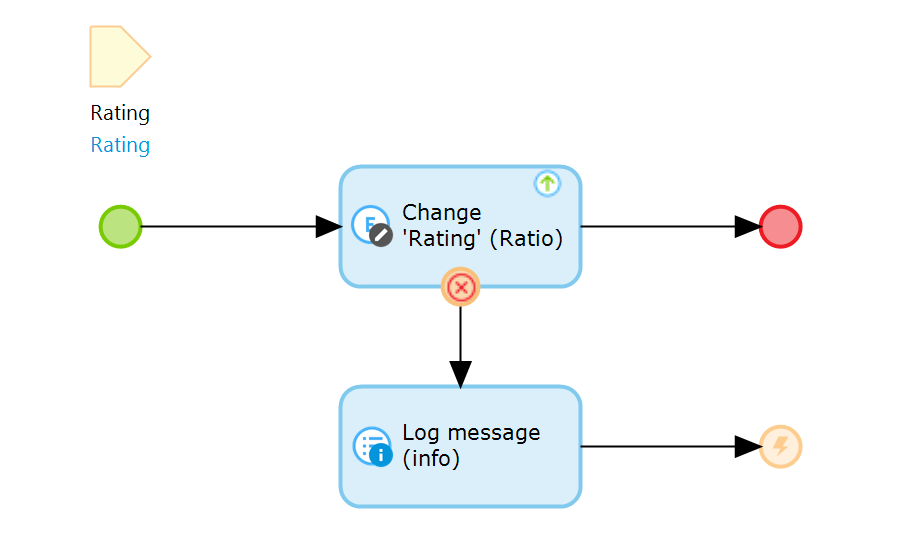
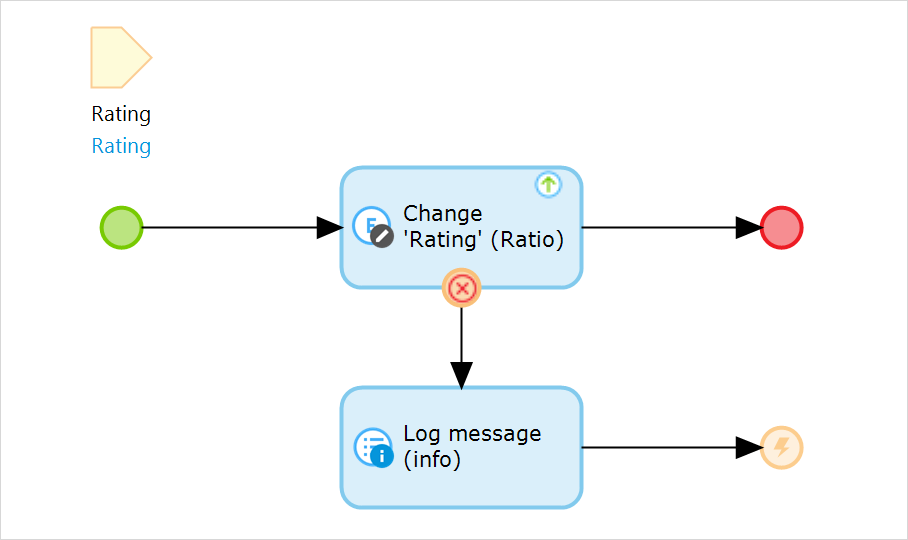
Resize images

diff --git a/content/evaluation-guide/app-lifecycle/devops-overview.md b/content/evaluation-guide/app-lifecycle/devops-overview.md
@@ -29,7 +29,9 @@ Many tools and services considered standard for DevOps are either available out 
 
 Mendix makes it easy to manage the requirements of different stakeholders for your apps. In the [Mendix Developer Portal](https://sprintr.home.mendix.com/), development teams can set up their app project backlogs. As part of the DevOps process, a team regularly schedules user stories from their backlog to improve their operational processes.
 
+{{% image_container width="600" %}}
 ![](attachments/stories.png)
+{{% /image_container %}}
 
 For more details on how Mendix helps development teams to manage their requirements and project backlogs, see [Agile Project Management](requirements-management).
 
@@ -37,7 +39,9 @@ For more details on how Mendix helps development teams to manage their requireme
 
 During development, Mendix helps development teams to efficiently develop (or *model*) high-quality application models. An app model is continuously checked for consistency errors while the user is working in the Mendix Desktop Modeler or Web Modeler. These consistency checks ensure model integrity and immediately catch many of the mistakes users can make.
 
+{{% image_container width="650" %}}
 ![](attachments/error-list.png)
+{{% /image_container %}}
 
 Compared to other development tools, this makes users more efficient and reduces the number of accidentally introduced regressions. For more details, see [Consistency Checks](model-consistency).
 
@@ -49,7 +53,9 @@ For further information on developing Mendix apps, see [Developing in Mendix](de
 
 Mendix users commit the changes they make to their app models to the Mendix Team Server, which is a fully fledged and managed version control system based on Subversion. From any commit on any branch, you can create a deployment package. This is then stored in the Mendix Deployment Package Repository, where developers can manage all Mendix artifacts.
 
+{{% image_container width="600" %}}
 ![](attachments/deployment-package-repository.png)
+{{% /image_container %}}
 
 For details on how to version your app models, create deployable artifacts, and manage those artifacts, see [App Build Creation](building-your-app).
 
@@ -81,7 +87,9 @@ For more details, see [Operations, Deployment, and Release](ops-deployment-relea
 
 The Mendix Platform provides out-of-the-box monitoring capabilities that give insight into the health and status of all your Mendix apps running in the Mendix Cloud. Development teams will find that the essential [trend graphs](https://docs.mendix.com/developerportal/operate/trends-v4), [alerting functionality](https://docs.mendix.com/developerportal/operate/monitoring-application-health), and [live logging](https://docs.mendix.com/developerportal/operate/logs) features make it very easy to operate and monitor Mendix apps after deployment.
 
+{{% image_container width="600" %}}
 ![](attachments/metrics.png)
+{{% /image_container %}}
 
 Developers can do advanced problem diagnosis and performance monitoring of their Mendix apps with [Mendix Application Performance Monitor (APM)](https://docs.mendix.com/apm/).
 

diff --git a/content/evaluation-guide/app-lifecycle/developing-app-logic.md b/content/evaluation-guide/app-lifecycle/developing-app-logic.md
@@ -30,7 +30,9 @@ Mendix is all about the collaboration between business and IT, and the visual na
 
 The Mendix Web Modeler has review capabilities built in, which business users can utilize to review specific microflows describing the business logic. While reviewing that logic, such users can inspect what the logic does in a familiar visual language. They can also add comments on the microflow to describe the changes required to meet business requirements. This results in a very short feedback loop, leading to better products and lower costs.
 
+{{% image_container width="600" %}}
 ![](attachments/buzz_comment.png)
+{{% /image_container %}}
 
 ## 3 How Do I Build Client-Side Logic?
 
@@ -54,7 +56,7 @@ A microflow is composed of the following element types:
 
 For more information, see [Microflows](https://docs.mendix.com/refguide/microflows) in the Mendix Reference Guide.
 
-{{% image_container width="450" %}}
+{{% image_container width="500" %}}
 ![](attachments/microflow.png)
 {{% /image_container %}}
 
@@ -75,7 +77,9 @@ For more details, see the following sections:
 
 Integration with a third-generation programming language (in this case, Java) is one of the key strengths of the Mendix model-driven development approach. This is particularly useful in those rare situations where you are unable to achieve your desired results using microflows alone, or where you have an existing investment in Java/Scala code and skills that you would like to leverage in your application models. The Mendix Desktop Modeler is integrated with Eclipse to support you in making code extensions to the models. The Mendix debugging facilities are fully integrated into Eclipse, providing you the same debugging capabilities with the referred Java code as any other part of the running application.
 
+{{% image_container width="700" %}}
 ![](attachments/eclipse.png)
+{{% /image_container %}}
 
 In essence, you are never limited by the reach of a specific DSL and can always resort to the use of custom Java functions. Custom Java functions can be called from within a model, and the output can be used directly. The interface of each action (which equals a Java function) is also defined within the model. The name, parameters, and return values are all declared in the Mendix Desktop Modeler. The Modeler generates a Java template class for each action, which is the hook where custom code can be added.
 

diff --git a/content/evaluation-guide/enterprise-capabilities/security-model.md b/content/evaluation-guide/enterprise-capabilities/security-model.md
@@ -80,7 +80,9 @@ Microflows are used to visually define business and process logic. Microflow acc
 
 Microflow access is managed within a matrix of microflows and module roles. For each combination, the user can indicate whether or not the module role has access to the microflow.
 
-![Modular security settings for Microflows](attachments/figure-5-modular-security-for-microflows.png)
+{{% image_container width="600" %}}
+![](attachments/figure-5-modular-security-for-microflows.png)
+{{% /image_container %}}
 
 This information can also be edited within a microflow using the **Allowed roles** property.
 
@@ -88,7 +90,9 @@ This information can also be edited within a microflow using the **Allowed roles
 
 For each module role, entity access defines whether users with the role are authorized to create, read, update, and delete objects of the entity. Entity access is configured with access rules that apply to entities. Each access rule in turn applies to a (set of) module role(s). The access rules of an entity define what a user is allowed to do with objects of the entity. Users can be allowed to create and delete objects as well as view and edit member values. A member is an attribute or an association of an entity.
 
-![Object security rule](attachments/figure-6-object-security-role.png)
+{{% image_container width="600" %}}
+![](attachments/figure-6-object-security-role.png)
+{{% /image_container %}}
 
 Furthermore, the data sets of objects available for viewing, editing, and removing, which can be limited by means of an XPath constraint. Every access rule is applicable to one or more module roles. An access rule grants certain access rights to those roles. Rules are additive, which means that if multiple access rules apply to the same module role, all the access rights of those rules are combined for that module role. This feature is applied, for example, when applications are configured for multi-tenant usage.
 

diff --git a/content/evaluation-guide/app-capabilities/data-integrity.md b/content/evaluation-guide/app-capabilities/data-integrity.md
@@ -33,7 +33,7 @@ You can use the following types for your attributes:
 * **Long** – a 64-bit whole number
 * **String** – text containing letter, numbers, spaces, and other characters
 
-{{% image_container width="500" %}}
+{{% image_container width="600" %}}
 ![](attachments/entity_data_types.png)
 {{% /image_container %}}
 
@@ -43,7 +43,7 @@ For more details, see the section [Attributes](https://docs.mendix.com/refguide/
 
 Validation rules specify the rules to which your data should adhere. If your data does not follow the rules specified, you will receive an error when you try to save the data.
 
-{{% image_container width="500" %}}
+{{% image_container width="600" %}}
 
 ![](attachments/entity_validation_rule.png)
 
@@ -61,7 +61,7 @@ Event handlers give you the ability to run logic before or after certain events.
 
 To set event handlers on all the entities in your application, you can use the Mendix Java API. For example, to set a before commit event listener for all entities, use this method: [Core.getListenersRegistry().registerAfterCommitListener](https://apidocs.mendix.com/7/runtime/index.html?com/mendix/core/actionmanagement/ListenersRegistry.html).
 
-{{% image_container width="500" %}}
+{{% image_container width="600" %}}
 ![](attachments/entity_event_handler.png)
 {{% /image_container %}}
 
@@ -77,7 +77,7 @@ The access right aspects you can define on entities include the following:
 
 You can also use XPath constraints to define so-called **row-level security**, which defines what objects a user is allowed to see. This can be used to ensure customers can only see their data, case workers can only see data related to their cases, and tenants get access to only their tenant data in a multi-tenant application.
 
-{{% image_container width="500" %}}
+{{% image_container width="600" %}}
 ![](attachments/entity_access_rules.png)
 {{% /image_container %}}
 

diff --git a/content/evaluation-guide/app-capabilities/service-exposure.md b/content/evaluation-guide/app-capabilities/service-exposure.md
@@ -33,7 +33,7 @@ Looking at the implementation of your REST operations, you can use any microflow
 
 The following images use the optional `httpResponse` parameter, which you can use to override HTTP status code or status message. If required, you can also specify that you want access to the HTTP request, for example, to determine the value of the HTTP header values.
 
-{{% image_container width="600" %}}
+{{% image_container width="550" %}}
 ![](attachments/get-order-rest-example-mf.png)
 {{% /image_container %}}
 
@@ -69,7 +69,7 @@ To expose your Mendix data through OData, select **Expose as OData resource** fo
 
 Next, you are able to specify which attributes you want to expose. You can also specify who can access this data. Of course, all the entity access rules specified on your domain model entities still apply when retrieving data through OData.
 
-{{% image_container width="600" %}}
+{{% image_container width="650" %}}
 ![](attachments/odata-published-service.png)
 {{% /image_container %}}
 
@@ -83,7 +83,7 @@ Mendix provides a Java API to define [custom request handlers](https://www.mendi
 
 Every REST API you implement with Mendix will automatically include an OpenAPI document, describing all the resources and methods provided by your API. If you include documentation and example values in your message definition, these will also be included in your OpenAPI documentation. This will make it very easy for your users to start using your API.
 
-{{% image_container width="450" %}}
+{{% image_container width="600" %}}
 ![](attachments/swagger-documentation.png)
 {{% /image_container %}}
 

diff --git a/content/evaluation-guide/app-capabilities/multi-cloud-overview.md b/content/evaluation-guide/app-capabilities/multi-cloud-overview.md
@@ -72,13 +72,17 @@ For more information, see the section [Which Operating Systems Do the Mendix Mod
 
 Mendix multi-cloud is a deep integration with different cloud providers, which allows you to deploy your application with a single click from both the Mendix Modeler and the Developer Portal.
 
+{{% image_container width="650" %}}
 ![](attachments/run.png)
+{{% /image_container %}}
 
 The Mendix multi-cloud solution makes use of container-based cloud solutions. The creation of the container and the required services (like the database) is done completely automatically.
 
 It is even possible to switch between cloud providers, so you can start developing and running your application on one cloud and, over time, move it to another cloud.
 
+{{% image_container width="600" %}}
 ![](attachments/mutli-cloud-selection.png)
+{{% /image_container %}}
 
 At the moment, the integrated Mendix multi-cloud solution is provided for Mendix Cloud, IBM Cloud, and SAP Cloud. More clouds will be added to the Mendix multi-cloud portfolio in the near future.
 
@@ -96,7 +100,9 @@ In the scenario that you have access to an IaaS and you need to choose a PaaS la
 
 The Mendix Runtime can be directly installed on a server. Mendix provides a service manager for both Linux-based and Windows-based servers that controls the start, stop, and deployment of an application on the server.
 
+{{% image_container width="600" %}}
 ![](attachments/mx-service-console.png)
+{{% /image_container %}}
 
 For Linux-based applications, this is a command-line based tool called [M2EE](https://github.com/mendix/m2ee-tools).
 

diff --git a/content/evaluation-guide/app-capabilities/front-end.md b/content/evaluation-guide/app-capabilities/front-end.md
@@ -12,7 +12,7 @@ Mendix allows you to combine web and mobile applications into the same app model
 
 With Mendix, you can build responsive user interfaces that adapt automatically to the end-user’s device. By default, Mendix provides a full set of layouts, pages, building blocks, and widgets. There is a flexible grid system that can be easily nested and configured for different screen sizes. The Mendix front-end is based on [Bootstrap](https://getbootstrap.com/), which is also fully responsive, making it easy for (new) users to build responsive user interfaces.
 
-{{% image_container width="500" %}}
+{{% image_container width="600" %}}
 ![](attachments/web-modeler-test.png)
 {{% /image_container %}}
 
@@ -34,7 +34,7 @@ The [Atlas UI](https://atlas.mendix.com) framework offered on the Mendix Platfor
 
 Mendix offers various UI elements (called widgets) out of the box that can be used to build these rich user interfaces. Widgets can be placed directly on the page or combined in building blocks. Mendix provides widgets that include basic inputs, buttons, and text boxes as well as widgets for Google Maps, rich text, slider functionality, and much more. The Mendix community also develops, releases, and maintains over 600 hundred open-source custom widgets for use in app development via the [Mendix App Store](https://appstore.mendix.com). Next to this, it is also possible to extend Mendix with your own [custom widgets](#extend)
 
-{{% image_container width="600" %}}
+{{% image_container width="550" %}}
 ![](attachments/atlas-ui1.png)
 {{% /image_container %}}
 

diff --git a/content/evaluation-guide/app-lifecycle/ops-deployment-release.md b/content/evaluation-guide/app-lifecycle/ops-deployment-release.md
@@ -20,9 +20,9 @@ Once a revision of the application is created in the Deployment Package Reposito
 
 Development teams can fully automate this process by leveraging the [Deploy API](https://docs.mendix.com/apidocs-mxsdk/apidocs/deploy-api) in their [CI/CD tools and services of choice](cicd#cicd-other-tools).
 
-All deployment activities on the Mendix Platform are logged and visible in the Developer Portal. You can review the **Activity ** log for each environment to identify the user who executed the operations on your app's environments.
+All deployment activities on the Mendix Platform are logged and visible in the Developer Portal. You can review the **Activity** log for each environment to identify the user who executed the operations on your app's environments.
 
-{{% image_container width="600" %}}
+{{% image_container width="650" %}}
 ![](attachments/activity-log.png)
 {{% /image_container %}}
 
@@ -34,7 +34,7 @@ When you commit the changes you have made to your app model in the Mendix Modele
 
 In the Mendix Cloud, environments are provisioned to allow for staged deployment. Typically, most application nodes come with either two environments (acceptance and production) or three environments (test, acceptance, and production). The Mendix Platform can accommodate additional environments to fit with your DevOps process.
 
-{{% image_container width="600" %}}
+{{% image_container width="650" %}}
 ![](attachments/DO_StagingEnvironments.png)
 {{% /image_container %}}
 

diff --git a/content/evaluation-guide/app-capabilities/data-storage.md b/content/evaluation-guide/app-capabilities/data-storage.md
@@ -40,7 +40,7 @@ The database structure created will include tables, data types, associations, re
 
 It is important to note that whenever you make changes to your applications, the underlying database tables will be automatically updated accordingly. Your data will also be migrated.
 
-{{% image_container width="500" %}}
+{{% image_container width="450" %}}
 ![](attachments/deploy_ddl.png)
 {{% /image_container %}}
 
@@ -97,7 +97,7 @@ Every request to the Mendix Runtime automatically starts a new transaction. Upon
 
 In the following microflow, a custom error handler is defined. When the **Change** activity fails, any changes it made to the database are rolled back. The error handler defines what you want to do with the transaction: you can roll back everything that happened in the microflow, or you can compensate for the problem and continue. In this example, a log message is generated, after which the microflow ends in an error. The calling microflow can then decide how to handle this.
 
-{{% image_container width="450" %}}
+{{% image_container width="600" %}}
 ![](attachments/transaction_error_handling.png)
 {{% /image_container %}}
 

diff --git a/content/evaluation-guide/app-lifecycle/monitoring-alerts.md b/content/evaluation-guide/app-lifecycle/monitoring-alerts.md
@@ -10,7 +10,9 @@ tags: ["monitoring", "alerts", "devops"]
 
 The Mendix Platform enables development teams to not only develop but also maintain and support applications with enterprise-grade non-functional requirements. Mendix provides a number of monitoring solutions out of the box in order to support development teams. Trend graphs and alerts are available for the full application stack, and live logging and debugging make it possible to quickly diagnose issues as they happen in production.
 
+{{% image_container width="600" %}}
 ![](attachments/mx-metrics.png)
+{{% /image_container %}}
 
 Development teams can use the [Mendix Application Performance Monitor (APM)](https://docs.mendix.com/apm/) to continuously monitor and measure performance of their apps in order to diagnose and resolve performance issues. Mendix APM provides point-in-time visibility, tracking, and diagnostics into Mendix Runtime performance at both a high level for user experience performance and at the lowest possible level for details on microflow activity performance. This allows you to continuously improve your app's performance and user experience.
 

diff --git a/content/evaluation-guide/app-capabilities/mendix-cloud-features.md b/content/evaluation-guide/app-capabilities/mendix-cloud-features.md
@@ -36,7 +36,7 @@ For more details, see the section [How Does Mendix Cloud Support Backup & Recove
 
 The Mendix Cloud Portal provides all the necessary metrics for you to analyze the performance of your application. This is not limited to insights into memory or CPU utilization, as it is even possible to see metrics on the actual model execution. This allows you to respond more quickly to a specific performance bottleneck and optimize your application more easily.
 
-{{% image_container width="600" %}}
+{{% image_container width="650" %}}
 ![](attachments/mx-metrics.png)
 {{% /image_container %}}
 
@@ -62,6 +62,6 @@ For more information, see the section [How Can I Debug a Live App Running in the
 
 In the Mendix Cloud, it is possible to extend the access security of your application by using whitelisting based on IP filtering and by using TLS client certificate verification. This ensures that an app is only accessible from a another specific machine or location (like your office).
 
-{{% image_container width="450" %}}
+{{% image_container width="550" %}}
 ![](attachments/mx-restrictions.png)
 {{% /image_container %}}

diff --git a/content/evaluation-guide/app-lifecycle/app-development.md b/content/evaluation-guide/app-lifecycle/app-development.md
@@ -44,7 +44,7 @@ Business analysts and business developers use the Web Modeler to do the followin
 
 In short, the Web Modeler empowers these users to solve problems collaboratively, creatively, and quickly, maximizing the productivity of your organization and gaining higher end-user adoption.
 
-{{% image_container width="500" %}}
+{{% image_container width="600" %}}
 ![](attachments/web-modeler-test.png)
 {{% /image_container %}}
 
@@ -56,7 +56,7 @@ The Desktop Modeler is designed for (experienced) business analysts and develope
 
 Within the Desktop Modeler, you are able to build extensions, add integration to underlying systems, manage branch lines, and manage security. What is more, the Desktop Modeler consists of an extensive set of domain-specific languages and associated modeling tools, including the domain model, page editor, microflow editor, integrations, debugger, and security configuration.
 
-{{% image_container width="600" %}}
+{{% image_container width="800" %}}
 ![](attachments/desktop-modeler.png)
 {{% /image_container %}}
 
